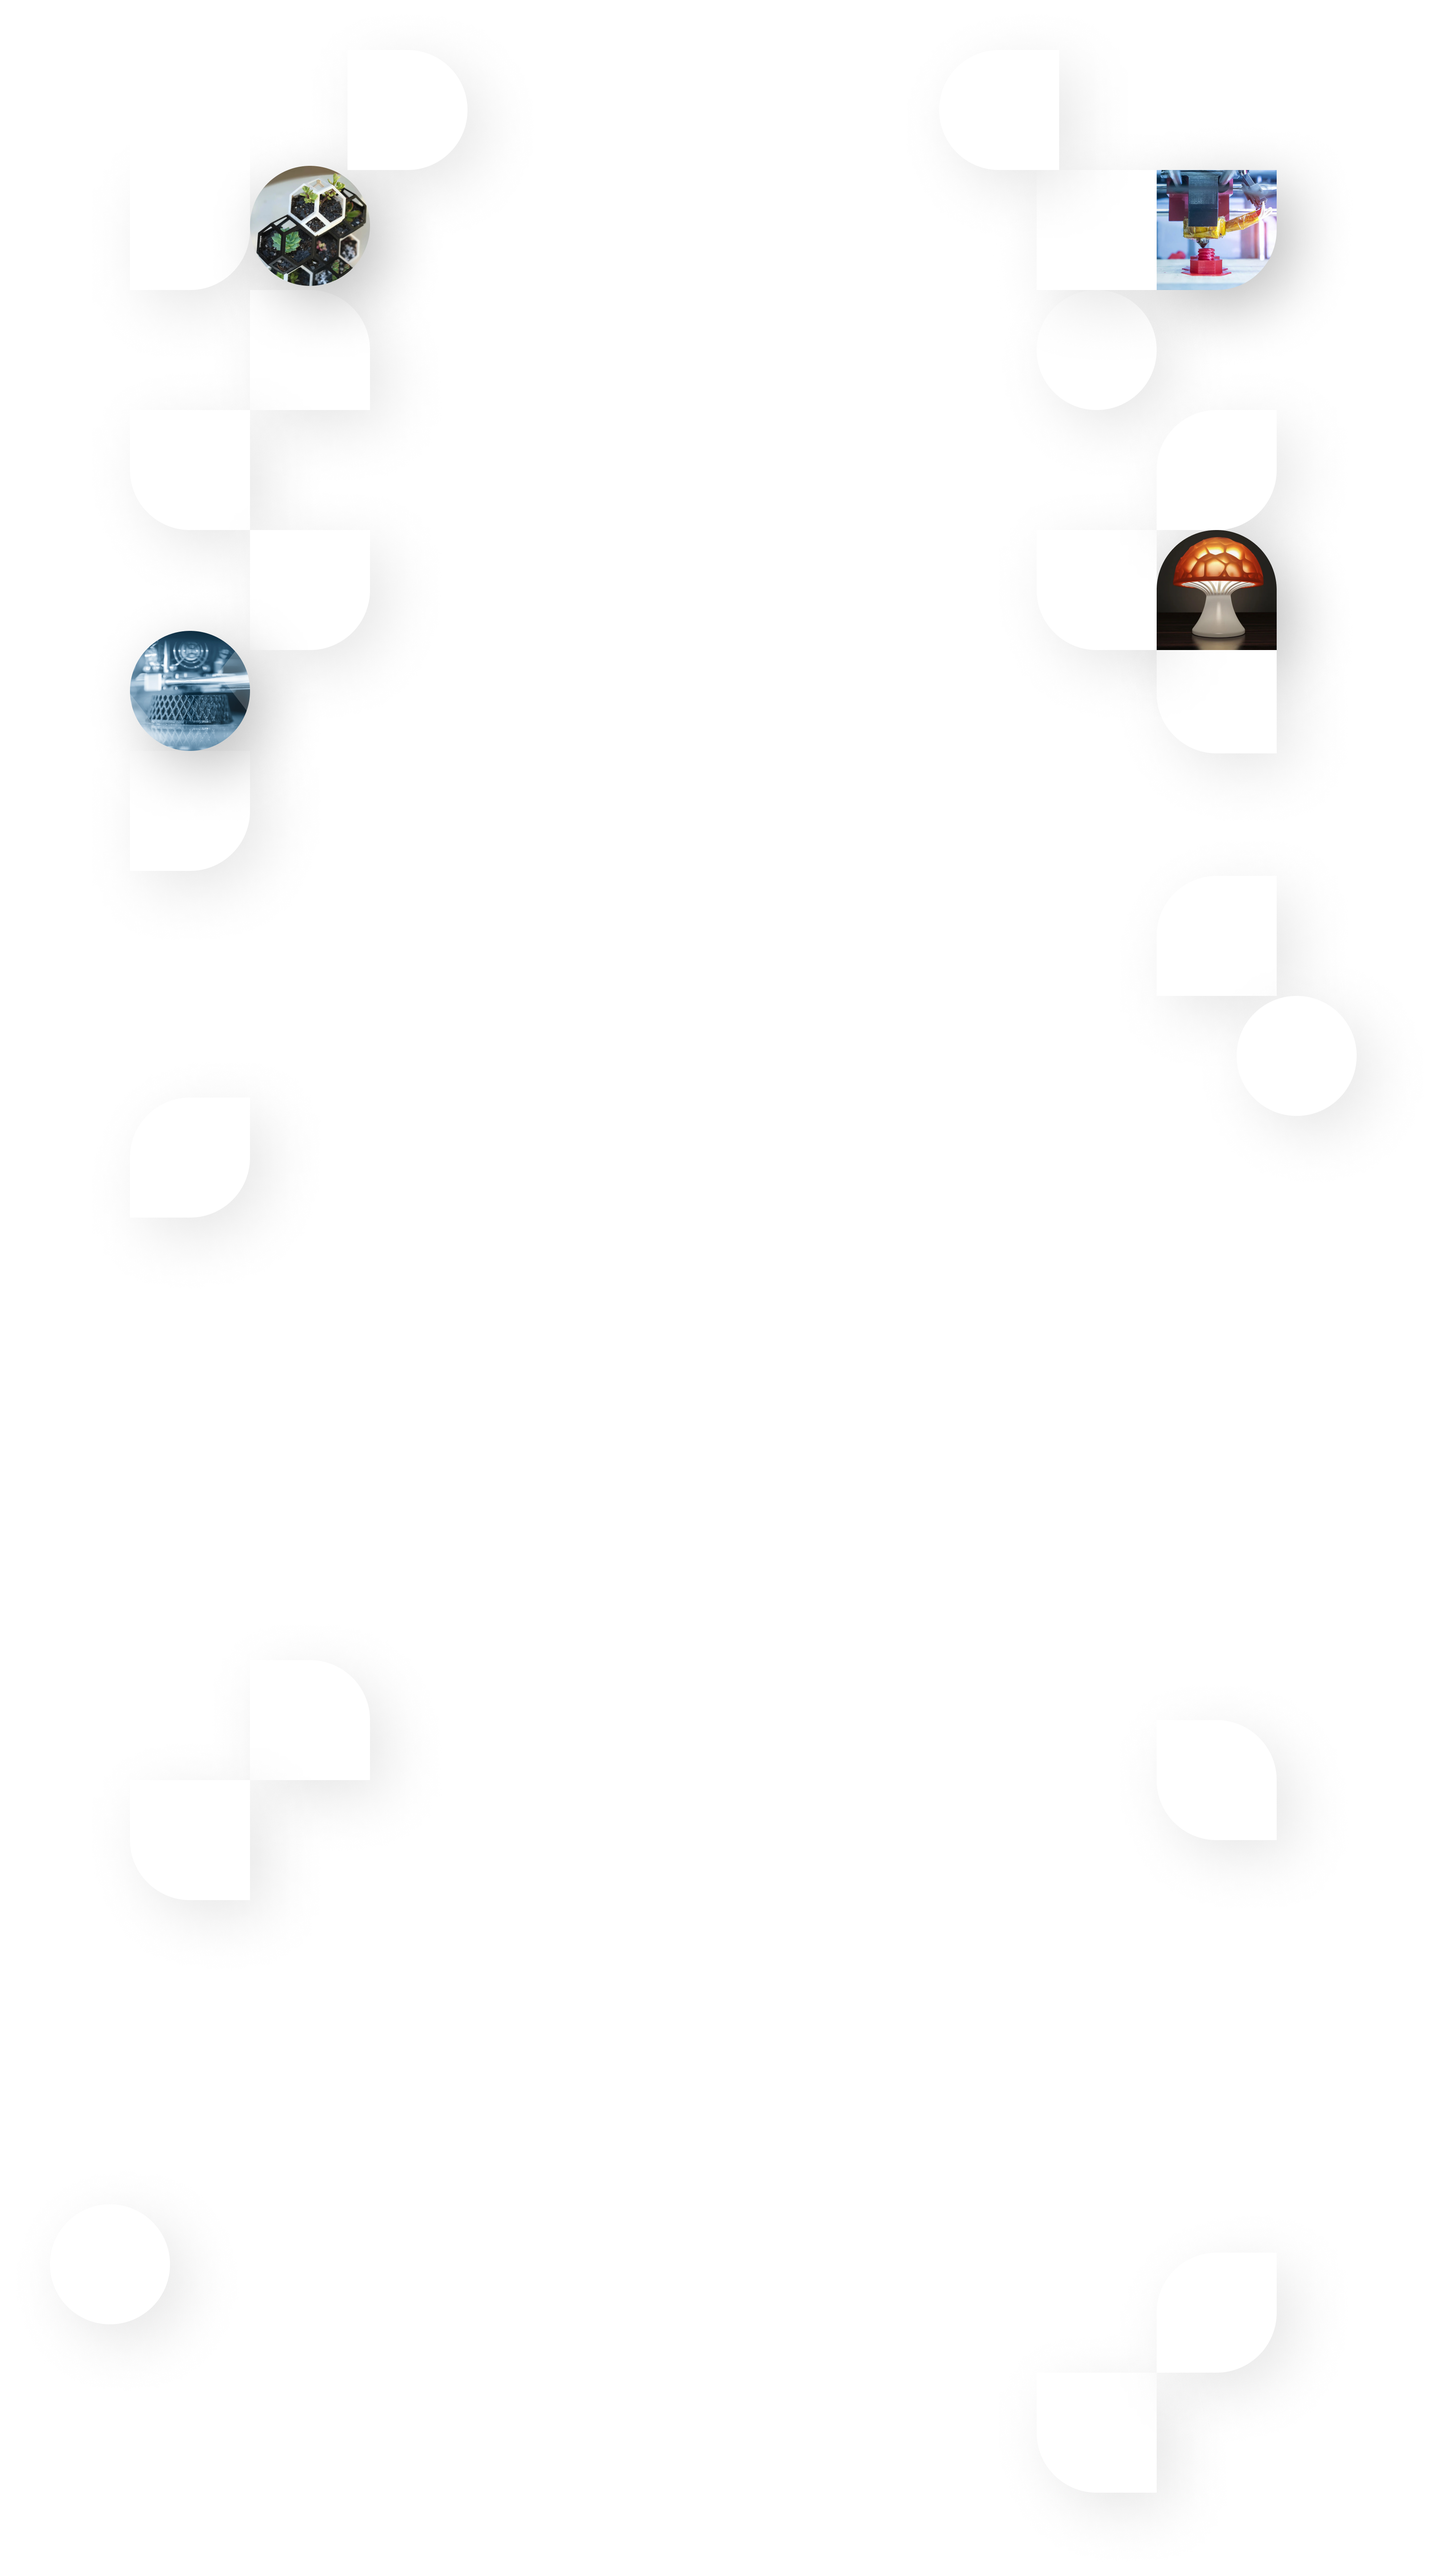
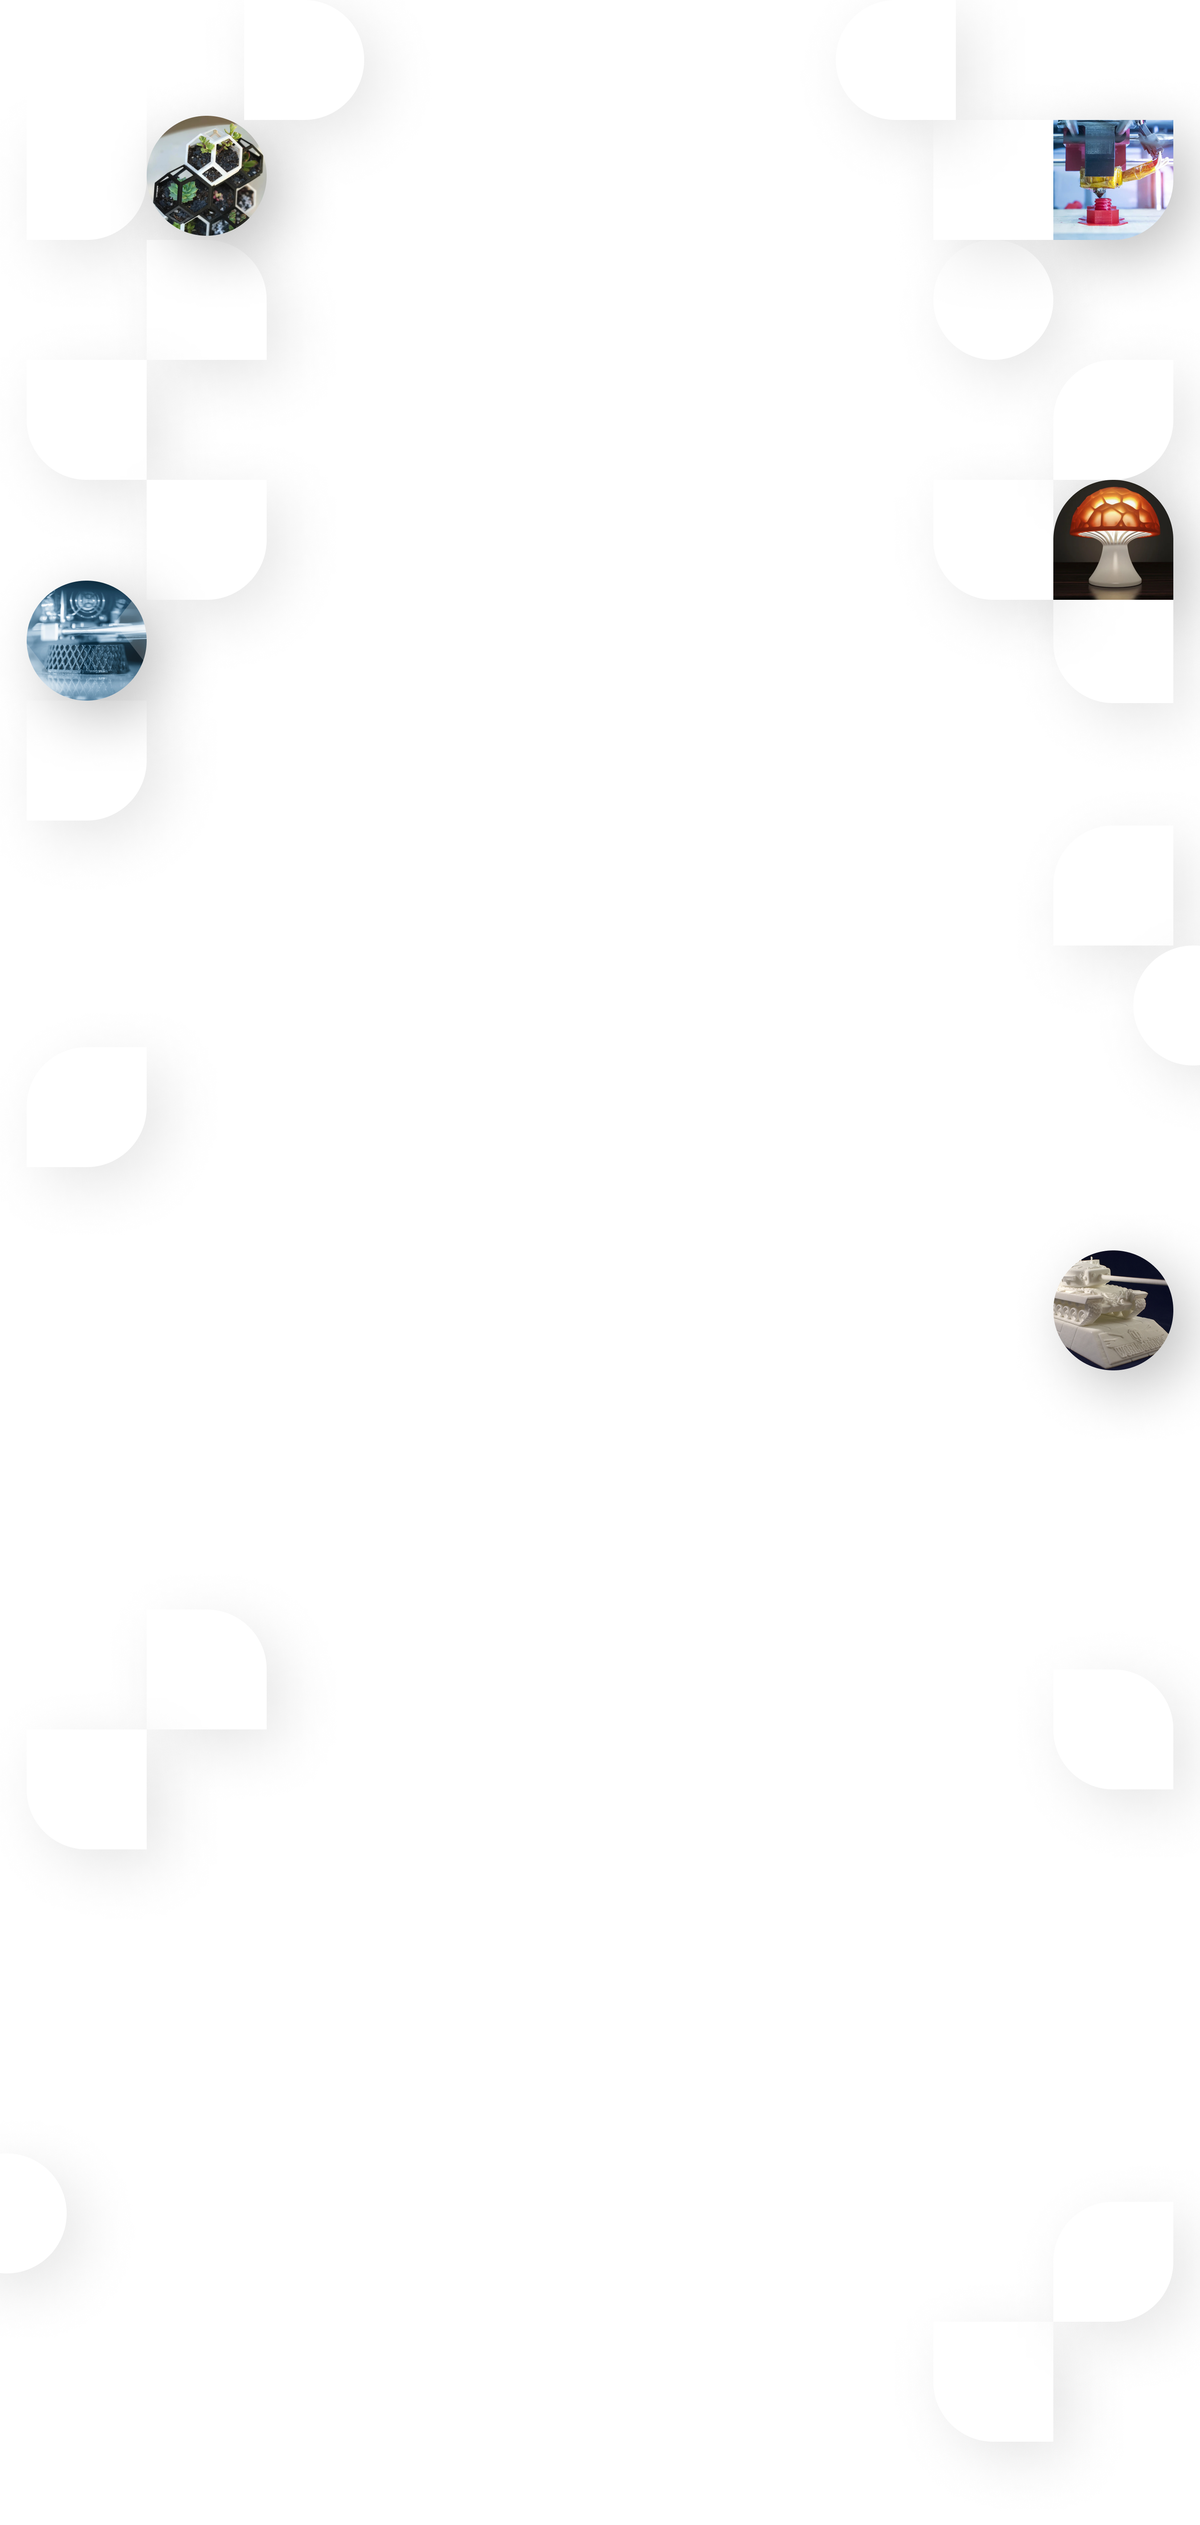
fix background img

diff --git a/src/sass/main.css b/src/sass/main.css
@@ -299,6 +299,92 @@ button {
   }
 }
 
+.main-bg {
+  background-color: red;
+  background-repeat: no-repeat;
+  background-origin: border-box;
+  background-position: top;
+}
+
+@media (min-width: 320px) {
+  .main-bg {
+    background-image: url(../images/mobile/img1.png);
+  }
+}
+
+@media screen and (min-width: 320px) and (min-device-pixel-ratio: 2) and (min-width: 320px), screen and (min-width: 320px) and (-webkit-min-device-pixel-ratio: 2) and (min-width: 320px), screen and (min-width: 320px) and (min-resolution: 192dpi) and (min-width: 320px), screen and (min-width: 320px) and (min-resolution: 2dppx) and (min-width: 320px) {
+  .main-bg {
+    background-image: url("../images//mobile/img1@2x.png");
+  }
+}
+
+@media (min-width: 768px) {
+  .main-bg {
+    background-image: url(../images/tablet/img1.png);
+  }
+}
+
+@media screen and (min-width: 768px) and (min-device-pixel-ratio: 2) and (min-width: 768px), screen and (min-width: 768px) and (-webkit-min-device-pixel-ratio: 2) and (min-width: 768px), screen and (min-width: 768px) and (min-resolution: 192dpi) and (min-width: 768px), screen and (min-width: 768px) and (min-resolution: 2dppx) and (min-width: 768px) {
+  .main-bg {
+    background-image: url("../images//tablet/img1@2x.png");
+  }
+}
+
+@media (min-width: 1440px) {
+  .main-bg {
+    background-image: url(../images/desktop/img1.png);
+  }
+}
+
+@media screen and (min-width: 1440px) and (min-device-pixel-ratio: 2) and (min-width: 1440px), screen and (min-width: 1440px) and (-webkit-min-device-pixel-ratio: 2) and (min-width: 1440px), screen and (min-width: 1440px) and (min-resolution: 192dpi) and (min-width: 1440px), screen and (min-width: 1440px) and (min-resolution: 2dppx) and (min-width: 1440px) {
+  .main-bg {
+    background-image: url("../images//desktop/img1@2x.png");
+  }
+}
+
+.side-bg {
+  background-color: red;
+  background-repeat: no-repeat;
+  background-origin: border-box;
+  background-position: top;
+}
+
+@media (min-width: 320px) {
+  .side-bg {
+    background-image: url(../images/mobile/img2.png);
+  }
+}
+
+@media screen and (min-width: 320px) and (min-device-pixel-ratio: 2) and (min-width: 320px), screen and (min-width: 320px) and (-webkit-min-device-pixel-ratio: 2) and (min-width: 320px), screen and (min-width: 320px) and (min-resolution: 192dpi) and (min-width: 320px), screen and (min-width: 320px) and (min-resolution: 2dppx) and (min-width: 320px) {
+  .side-bg {
+    background-image: url("../images//mobile/img2@2x.png");
+  }
+}
+
+@media (min-width: 768px) {
+  .side-bg {
+    background-image: url(../images/tablet/img2.png);
+  }
+}
+
+@media screen and (min-width: 768px) and (min-device-pixel-ratio: 2) and (min-width: 768px), screen and (min-width: 768px) and (-webkit-min-device-pixel-ratio: 2) and (min-width: 768px), screen and (min-width: 768px) and (min-resolution: 192dpi) and (min-width: 768px), screen and (min-width: 768px) and (min-resolution: 2dppx) and (min-width: 768px) {
+  .side-bg {
+    background-image: url("../images//tablet/img2@2x.png");
+  }
+}
+
+@media (min-width: 1440px) {
+  .side-bg {
+    background-image: url(../images/desktop/img2.png);
+  }
+}
+
+@media screen and (min-width: 1440px) and (min-device-pixel-ratio: 2) and (min-width: 1440px), screen and (min-width: 1440px) and (-webkit-min-device-pixel-ratio: 2) and (min-width: 1440px), screen and (min-width: 1440px) and (min-resolution: 192dpi) and (min-width: 1440px), screen and (min-width: 1440px) and (min-resolution: 2dppx) and (min-width: 1440px) {
+  .side-bg {
+    background-image: url("../images//desktop/img2@2x.png");
+  }
+}
+
 @media screen and (max-width: 767px) {
   .as-call-list {
     display: none;
@@ -858,51 +944,6 @@ button {
   }
   .masonry-item {
     margin-top: 32px;
-  }
-}
-
-.main-bg {
-  background-repeat: no-repeat;
-  background-origin: padding-box;
-  background-position: top;
-}
-
-@media (min-width: 320px) {
-  .main-bg {
-    background-image: url(../images/mobile/main/img0.png);
-    background-size: 320px;
-  }
-}
-
-@media screen and (min-width: 320px) and (min-device-pixel-ratio: 2) and (min-width: 320px), screen and (min-width: 320px) and (-webkit-min-device-pixel-ratio: 2) and (min-width: 320px), screen and (min-width: 320px) and (min-resolution: 192dpi) and (min-width: 320px), screen and (min-width: 320px) and (min-resolution: 2dppx) and (min-width: 320px) {
-  .main-bg {
-    background-image: url("../images//mobile/main/img0@2x.png");
-  }
-}
-
-@media (min-width: 768px) {
-  .main-bg {
-    background-image: url(../images/tablet/main/img0.png);
-    background-size: 768px;
-  }
-}
-
-@media screen and (min-width: 768px) and (min-device-pixel-ratio: 2) and (min-width: 768px), screen and (min-width: 768px) and (-webkit-min-device-pixel-ratio: 2) and (min-width: 768px), screen and (min-width: 768px) and (min-resolution: 192dpi) and (min-width: 768px), screen and (min-width: 768px) and (min-resolution: 2dppx) and (min-width: 768px) {
-  .main-bg {
-    background-image: url("../images//tablet/main/img0@2x.png");
-  }
-}
-
-@media (min-width: 1440px) {
-  .main-bg {
-    background-image: url(../images/desktop/main/img0.png);
-    background-size: 1440px;
-  }
-}
-
-@media screen and (min-width: 1440px) and (min-device-pixel-ratio: 2) and (min-width: 1440px), screen and (min-width: 1440px) and (-webkit-min-device-pixel-ratio: 2) and (min-width: 1440px), screen and (min-width: 1440px) and (min-resolution: 192dpi) and (min-width: 1440px), screen and (min-width: 1440px) and (min-resolution: 2dppx) and (min-width: 1440px) {
-  .main-bg {
-    background-image: url("../images//desktop/main/img0@2x.png");
   }
 }
 

diff --git a/src/sass/layout/_page-background.scss b/src/sass/layout/_page-background.scss
@@ -2,39 +2,39 @@
   @include min-width('small') {
     background-image: url(../images/mobile/img1.png);
     @include retina('../images//mobile/img1@2x.png', 'small');
-    background-size: 320px;
+    background-size: map-get($min-widths, 'small');
   }
   @include min-width('medium') {
     background-image: url(../images/tablet/img1.png);
     @include retina('../images//tablet/img1@2x.png', 'medium');
-    background-size: 768px;
+    background-size: map-get($min-widths, 'medium');
   }
   @include min-width('large') {
     background-image: url(../images/desktop/img1.png);
     @include retina('../images//desktop/img1@2x.png', 'large');
-    background-size: 1728px;
+    background-size: map-get($min-widths, 'large');
   }
   background-repeat: no-repeat;
-  background-origin: padding-box;
+  background-origin: border-box;
   background-position: top;
 }
 .side-bg {
   @include min-width('small') {
     background-image: url(../images/mobile/img2.png);
     @include retina('../images//mobile/img2@2x.png', 'small');
-    background-size: 320px;
+    background-size: map-get($min-widths, 'small');
   }
   @include min-width('medium') {
     background-image: url(../images/tablet/img2.png);
     @include retina('../images//tablet/img2@2x.png', 'medium');
-    background-size: 768px;
+    background-size: map-get($min-widths, 'medium');
   }
   @include min-width('large') {
     background-image: url(../images/desktop/img2.png);
     @include retina('../images//desktop/img2@2x.png', 'large');
-    background-size: 1440px;
+    background-size: map-get($min-widths, 'large');
   }
   background-repeat: no-repeat;
-  background-origin: padding-box;
+  background-origin: border-box;
   background-position: top;
 }
